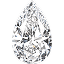
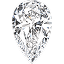
fix carat sizer ring and diamond

diff --git a/extensions/diamond-finder-theme-extension/assets/tailwind-output.css b/extensions/diamond-finder-theme-extension/assets/tailwind-output.css
@@ -708,6 +708,10 @@ video {
   height: 3rem;
 }
 
+.tw-h-14 {
+  height: 3.5rem;
+}
+
 .tw-h-16 {
   height: 4rem;
 }
@@ -740,12 +744,12 @@ video {
   height: 100%;
 }
 
-.tw-h-14 {
-  height: 3.5rem;
-}
-
 .tw-w-1\/2 {
   width: 50%;
+}
+
+.tw-w-14 {
+  width: 3.5rem;
 }
 
 .tw-w-16 {
@@ -795,10 +799,6 @@ video {
 .tw-w-max {
   width: -moz-max-content;
   width: max-content;
-}
-
-.tw-w-14 {
-  width: 3.5rem;
 }
 
 .tw-min-w-full {
@@ -1004,6 +1004,11 @@ video {
 
 .tw-border-transparent {
   border-color: transparent;
+}
+
+.tw-border-red-500 {
+  --tw-border-opacity: 1;
+  border-color: rgb(239 68 68 / var(--tw-border-opacity, 1));
 }
 
 .tw-bg-black {
@@ -1309,6 +1314,21 @@ video {
   --tw-shadow: 0 1px 2px 0 rgb(0 0 0 / 0.05);
   --tw-shadow-colored: 0 1px 2px 0 var(--tw-shadow-color);
   box-shadow: var(--tw-ring-offset-shadow, 0 0 #0000), var(--tw-ring-shadow, 0 0 #0000), var(--tw-shadow);
+}
+
+.tw-shadow-lg {
+  --tw-shadow: 0 10px 15px -3px rgb(0 0 0 / 0.1), 0 4px 6px -4px rgb(0 0 0 / 0.1);
+  --tw-shadow-colored: 0 10px 15px -3px var(--tw-shadow-color), 0 4px 6px -4px var(--tw-shadow-color);
+  box-shadow: var(--tw-ring-offset-shadow, 0 0 #0000), var(--tw-ring-shadow, 0 0 #0000), var(--tw-shadow);
+}
+
+.tw-saturate-50 {
+  --tw-saturate: saturate(.5);
+  filter: var(--tw-blur) var(--tw-brightness) var(--tw-contrast) var(--tw-grayscale) var(--tw-hue-rotate) var(--tw-invert) var(--tw-saturate) var(--tw-sepia) var(--tw-drop-shadow);
+}
+
+.tw-filter {
+  filter: var(--tw-blur) var(--tw-brightness) var(--tw-contrast) var(--tw-grayscale) var(--tw-hue-rotate) var(--tw-invert) var(--tw-saturate) var(--tw-sepia) var(--tw-drop-shadow);
 }
 
 .tw-transition {

diff --git a/extensions/diamond-finder-theme-extension/assets/diamond-carat-sizer.css b/extensions/diamond-finder-theme-extension/assets/diamond-carat-sizer.css
@@ -19,13 +19,14 @@
   width: 100%;
   height: 100%;
   object-fit: contain;
+  filter: saturate(60%);
 }
 
 /* Ring and diamond container - positioned on ring finger */
 .carat-ring-container {
   position: absolute;
   top: 37%;
-  left: 62%;
+  left: 61.85%;
   transform: rotate(40deg);
   /* transform: translate(-50%, -50%); */
 }
@@ -35,6 +36,7 @@
   position: relative;
   width: 60px;
   height: auto;
+  opacity: 0.9;
 }
 
 /* Diamond container - centered on ring */
@@ -43,8 +45,8 @@
   display: flex;
   align-items: center;
   justify-content: center;
-  top: 50%;
-  left: 50%;
+  top: 60%;
+  left: 48%;
   transform: translate(-50%, -50%);
 }
 
@@ -52,6 +54,7 @@
 .carat-diamond-image {
   display: block;
   width: var(--diamond-width);
+  opacity: 0.95;
 }
 
 /* Claws container */
@@ -73,9 +76,9 @@
 
 /* Slider container */
 .carat-slider-container {
-  margin-top: 2rem;
-  padding-left: 1rem;
-  padding-right: 1rem;
+  margin-top: 3.25rem;
+  padding-left: 1.5rem;
+  padding-right: 1.5rem;
 }
 
 /* Slider labels */
@@ -111,7 +114,7 @@
 
 #carat-sizer-slider .noUi-handle {
   background-color: white;
-  border: 2px solid #1f2937;
+  border: 2px solid #727578;
   border-radius: 9999px;
   box-shadow:
     0 4px 6px -1px rgba(0, 0, 0, 0.1),
@@ -129,7 +132,7 @@
 
 /* Style the tooltip */
 #carat-sizer-slider .noUi-tooltip {
-  background-color: #1f2937;
+  background-color: #313137;
   color: white;
   border: none;
   border-radius: 4px;

diff --git a/app/services/theme-settings.server.ts b/app/services/theme-settings.server.ts
@@ -138,9 +138,6 @@ export function parseThemeSettingsToRanges(
         ];
 
   if (!settings) {
-    console.log(
-      '[THEME SETTINGS] No settings provided, using default ranges with 1.0 multipliers'
-    );
     return defaultRanges;
   }
 
@@ -157,21 +154,12 @@ export function parseThemeSettingsToRanges(
     `${prefix}5_150`,
   ];
 
-  console.log(
-    `[THEME SETTINGS] Parsing settings for ${type} diamonds:`,
-    settings
-  );
-
   return defaultRanges.map((range, index) => {
     const settingValue = settings[keys[index]];
     const parsedValue = parseFloat(settingValue || '1.0');
 
     // Use 1.0 if the value is not a valid number
     const multiplier = isNaN(parsedValue) ? 1.0 : parsedValue;
-
-    console.log(
-      `[THEME SETTINGS] Range ${index}: ${range.min}-${range.max} carat -> multiplier: ${multiplier} (from setting: ${settingValue})`
-    );
 
     return {
       ...range,

diff --git a/extensions/diamond-finder-theme-extension/assets/diamond-carat-sizer.js b/extensions/diamond-finder-theme-extension/assets/diamond-carat-sizer.js
@@ -82,6 +82,28 @@ if (typeof window !== 'undefined') {
         }
       });
       
+      // Hide tooltip initially
+      const tooltip = sliderElement.querySelector('.noUi-tooltip');
+      if (tooltip) {
+        tooltip.style.display = 'none';
+      }
+      
+      // Show tooltip on start event
+      this.slider.on('start', () => {
+        const tooltip = sliderElement.querySelector('.noUi-tooltip');
+        if (tooltip) {
+          tooltip.style.display = 'block';
+        }
+      });
+      
+      // Hide tooltip on end event
+      this.slider.on('end', () => {
+        const tooltip = sliderElement.querySelector('.noUi-tooltip');
+        if (tooltip) {
+          tooltip.style.display = 'none';
+        }
+      });
+      
       // Add event listener for slider changes
       this.slider.on('update', (values) => {
         const caratValue = parseFloat(values[0]);
